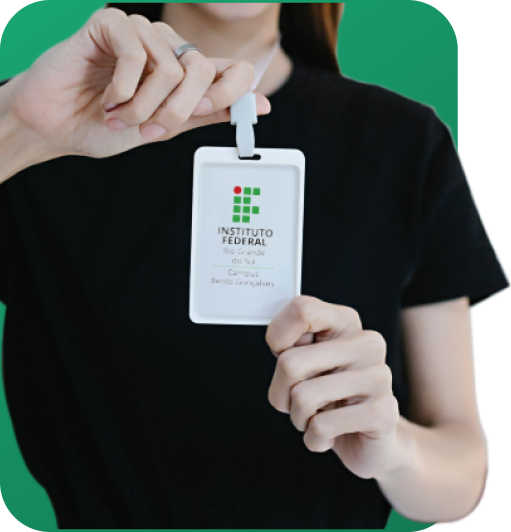
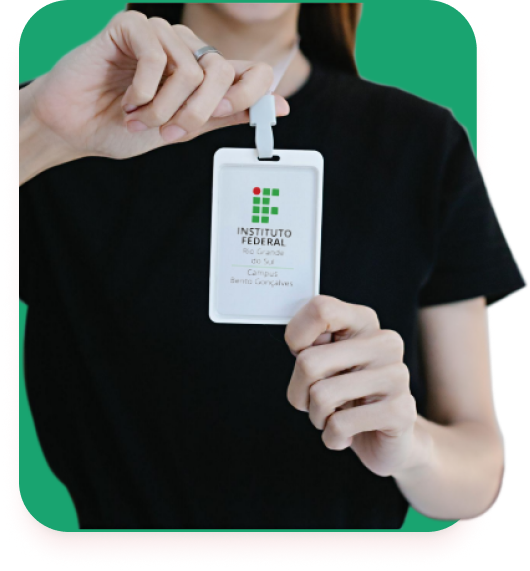
update: imagens da tela inicial

diff --git a/views/telaIndex.php b/views/telaIndex.php
@@ -220,7 +220,7 @@
     <div class="flex flex-col justify-center items-center gap-y-10">
 
         <div class="flex justify-center items-center gap-x-20">
-            <img src="views/assets/img-placeholder-3.png" class="h-80 rounded-md">
+            <img src="views/assets/img-placeholder-1.png" class="h-80 rounded-md">
 
             <div class="flex flex-col w-3/5">
                 <sapn class="font-bold text-4xl text-vermelho my-4">
@@ -252,7 +252,7 @@
                 </p>
             </div>
 
-            <img src="views/assets/img-placeholder-4.png" class="h-80 rounded-md">
+            <img src="views/assets/img-placeholder-2.png" class="h-80 rounded-md">
         </div>
     </div>
 
